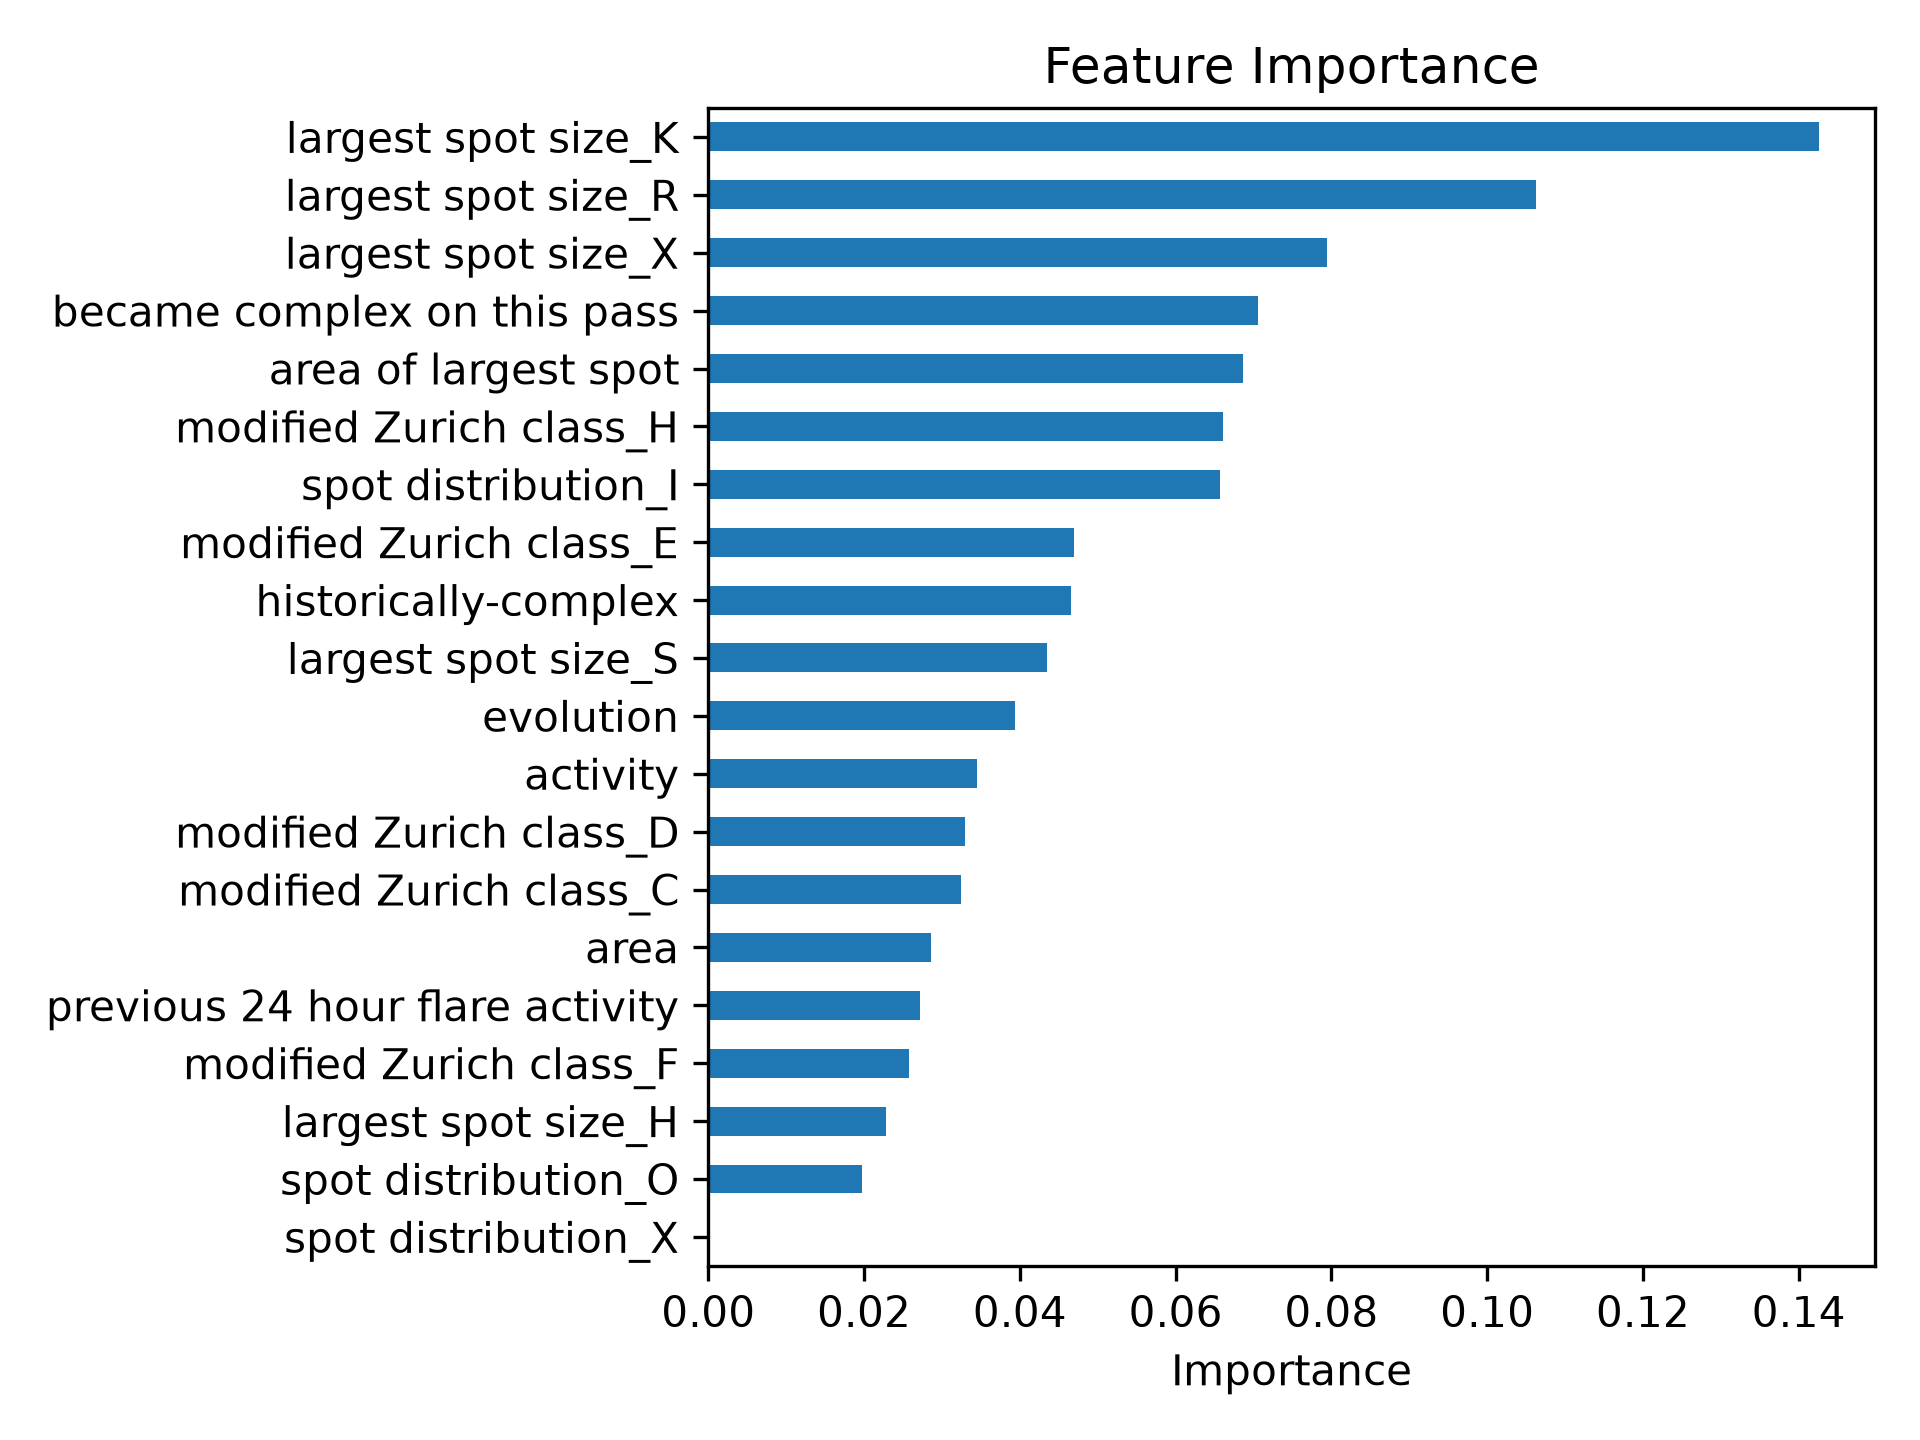
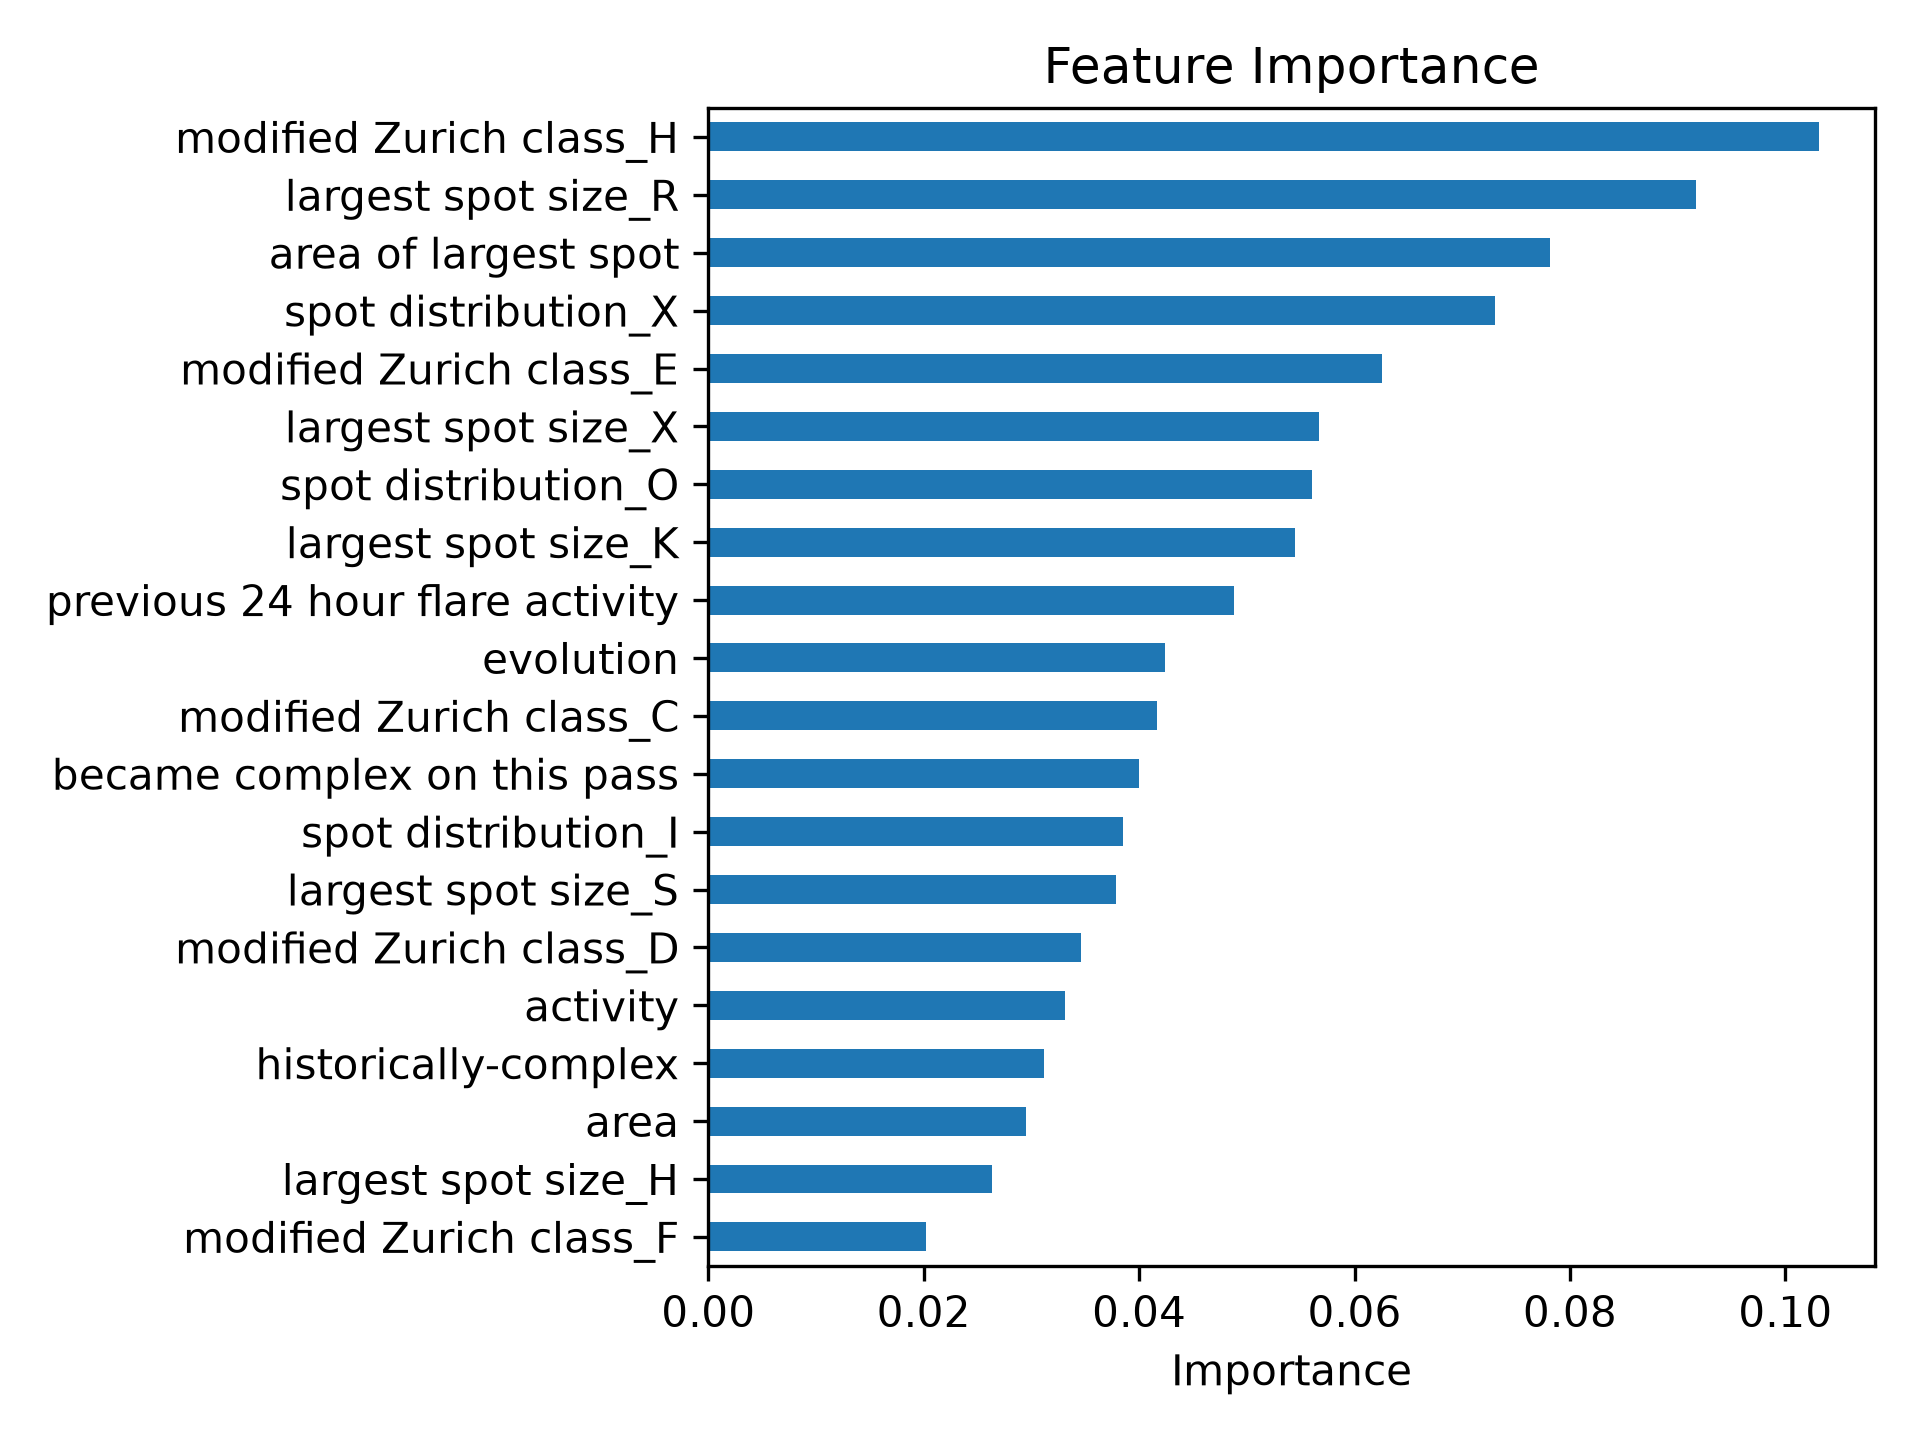
Add threshold tuning and model selection

diff --git a/ml/train.py b/ml/train.py
@@ -1,18 +1,20 @@
+import json
 from pathlib import Path
 
 import joblib
 import matplotlib
+import pandas as pd
 
 matplotlib.use("Agg")
-
 import matplotlib.pyplot as plt
-import pandas as pd
+
 from sklearn.metrics import (
     ConfusionMatrixDisplay,
     accuracy_score,
     classification_report,
     confusion_matrix,
     f1_score,
+    precision_recall_curve,
     precision_score,
     recall_score,
     roc_auc_score,
@@ -25,6 +27,67 @@ DATA_FILE = Path("data/processed/training_data.csv")
 MODEL_FILE = Path("models/flare_model.pkl")
 CONFUSION_MATRIX_FILE = Path("models/confusion_matrix.png")
 FEATURE_IMPORTANCE_FILE = Path("models/feature_importance.png")
+THRESHOLD_FILE = Path("models/decision_threshold.json")
+
+PARAM_GRID = [
+    {
+        "n_estimators": 150,
+        "max_depth": 3,
+        "learning_rate": 0.05,
+        "min_child_weight": 3,
+        "subsample": 0.9,
+        "colsample_bytree": 0.9,
+        "reg_lambda": 3.0,
+    },
+    {
+        "n_estimators": 200,
+        "max_depth": 3,
+        "learning_rate": 0.03,
+        "min_child_weight": 3,
+        "subsample": 0.9,
+        "colsample_bytree": 0.9,
+        "reg_lambda": 5.0,
+    },
+    {
+        "n_estimators": 200,
+        "max_depth": 4,
+        "learning_rate": 0.05,
+        "min_child_weight": 5,
+        "subsample": 0.8,
+        "colsample_bytree": 0.8,
+        "reg_lambda": 3.0,
+    },
+    {
+        "n_estimators": 250,
+        "max_depth": 4,
+        "learning_rate": 0.03,
+        "min_child_weight": 5,
+        "subsample": 0.8,
+        "colsample_bytree": 0.9,
+        "reg_lambda": 5.0,
+    },
+    {
+        "n_estimators": 150,
+        "max_depth": 5,
+        "learning_rate": 0.05,
+        "min_child_weight": 3,
+        "subsample": 0.8,
+        "colsample_bytree": 0.8,
+        "reg_lambda": 5.0,
+    },
+]
+
+
+def best_threshold_for_f1(y_true, probabilities):
+    precisions, recalls, thresholds = precision_recall_curve(
+        y_true,
+        probabilities,
+    )
+
+    f1_scores = 2 * (precisions * recalls) / (precisions + recalls + 1e-12)
+    best_index = f1_scores[:-1].argmax()
+
+    return float(thresholds[best_index]), float(f1_scores[best_index])
 
 
 def train():
@@ -41,23 +104,50 @@ def train():
         stratify=y,
     )
 
-    pos_weight = len(y[y == 0]) / len(y[y == 1])
-
-    model = XGBClassifier(
-        n_estimators=300,
-        max_depth=6,
-        learning_rate=0.05,
-        scale_pos_weight=pos_weight,
+    X_train, X_val, y_train, y_val = train_test_split(
+        X_train,
+        y_train,
+        test_size=0.25,
         random_state=42,
-        eval_metric="logloss",
+        stratify=y_train,
     )
 
-    model.fit(X_train, y_train)
+    pos_weight = len(y_train[y_train == 0]) / len(y_train[y_train == 1])
 
-    preds = model.predict(X_test)
+    best_model = None
+    best_params = None
+    best_threshold = 0.5
+    best_val_f1 = -1.0
+
+    for params in PARAM_GRID:
+        model = XGBClassifier(
+            **params,
+            scale_pos_weight=pos_weight,
+            random_state=42,
+            eval_metric="logloss",
+            n_jobs=1,
+        )
+
+        model.fit(X_train, y_train)
+
+        val_probs = model.predict_proba(X_val)[:, 1]
+        threshold, val_f1 = best_threshold_for_f1(y_val, val_probs)
+
+        if val_f1 > best_val_f1:
+            best_model = model
+            best_params = params
+            best_threshold = threshold
+            best_val_f1 = val_f1
+
+    model = best_model
+
     probs = model.predict_proba(X_test)[:, 1]
+    preds = (probs >= best_threshold).astype(int)
 
     print("\n=== Metrics ===")
+    print("Best Validation F1:", best_val_f1)
+    print("Decision Threshold:", best_threshold)
+    print("Best Parameters:", best_params)
     print("Accuracy:", accuracy_score(y_test, preds))
     print("Precision:", precision_score(y_test, preds))
     print("Recall:", recall_score(y_test, preds))
@@ -109,7 +199,15 @@ def train():
         MODEL_FILE,
     )
 
+    with open(THRESHOLD_FILE, "w", encoding="utf-8") as f:
+        json.dump(
+            {"decision_threshold": best_threshold},
+            f,
+            indent=2,
+        )
+
     print(f"\nModel saved -> {MODEL_FILE}")
+    print(f"Decision threshold saved -> {THRESHOLD_FILE}")
     print(f"Confusion matrix plot saved -> {CONFUSION_MATRIX_FILE}")
     print(f"Feature importance plot saved -> {FEATURE_IMPORTANCE_FILE}")
 